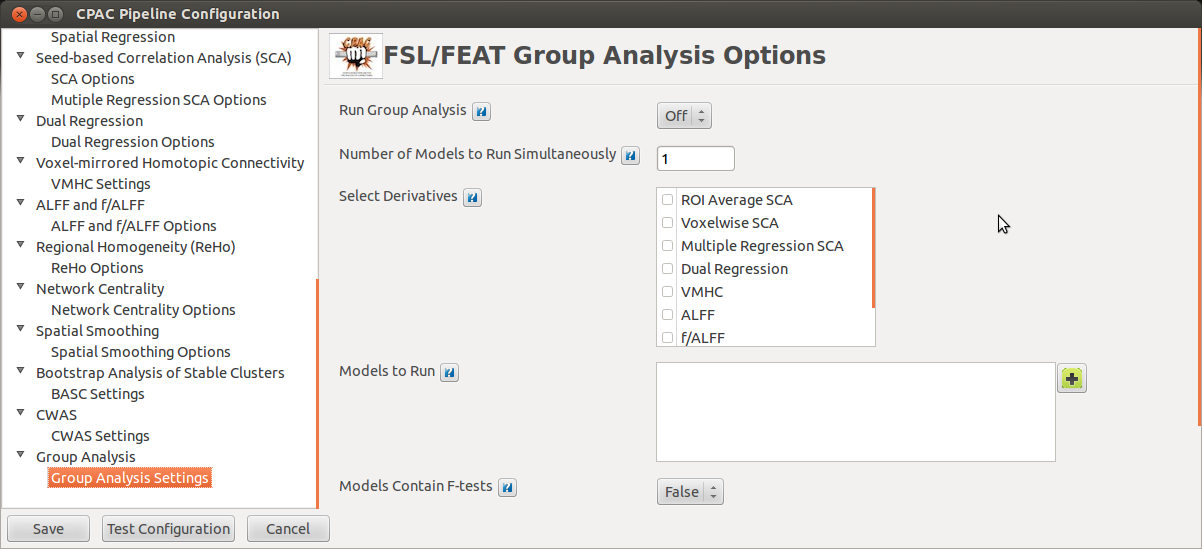
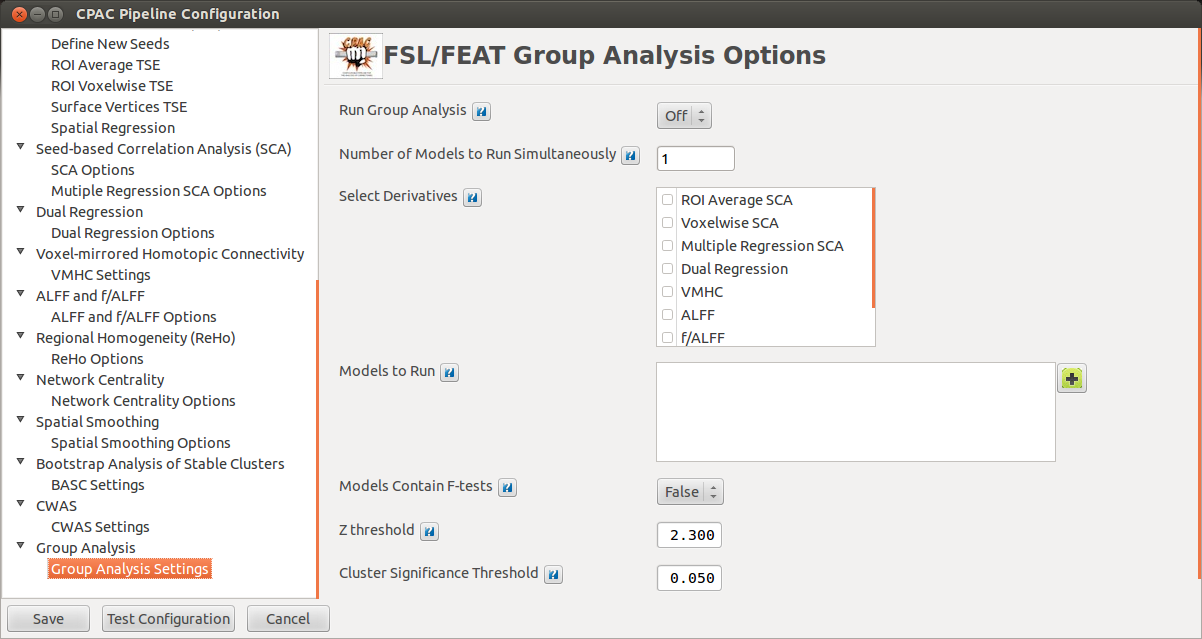
added z-score toggle and group analysis cores setting for 0.3.4 release

diff --git a/docs/user/fsl_ga.html b/docs/user/fsl_ga.html
@@ -52,6 +52,7 @@
       <div class="documentwrapper">
         <div class="bodywrapper">
           <div class="body">
+    
             
   <div class="section" id="fsl-group-analysis">
 <h1>FSL Group Analysis<a class="headerlink" href="#fsl-group-analysis" title="Permalink to this headline">¶</a></h1>
@@ -65,6 +66,8 @@
 <li><a class="reference external" href="http://www.fmrib.ox.ac.uk/fslcourse/lectures/feat1_part2.pdf">http://www.fmrib.ox.ac.uk/fslcourse/lectures/feat1_part2.pdf</a></li>
 <li><a class="reference external" href="http://www.cubric.cf.ac.uk/neuroimaging-training/session5_group.pdf">http://www.cubric.cf.ac.uk/neuroimaging-training/session5_group.pdf</a></li>
 </ul>
+
+
 </div>
 <div class="section" id="configuring-cpac-to-run-fsl-group-analysis">
 <h2>Configuring CPAC to Run FSL Group Analysis<a class="headerlink" href="#configuring-cpac-to-run-fsl-group-analysis" title="Permalink to this headline">¶</a></h2>
@@ -73,12 +76,15 @@
 </div>
 <ul class="simple">
 <li><strong>Run Group Analysis:</strong> Run group analysis using FSL/FEAT.</li>
+<li><strong>Number of Models to Run Simultaneously</strong> Set the number of computational cores that you would like to dedicate to group analysis.</li>
 <li><strong>Select Derivatives:</strong> Select which derivatives you would like to include when running group analysis. When including Dual Regression, make sure to correct your P-value for the number of maps you are comparing. When including Multiple Regression SCA, you must have more degrees of freedom (subjects) than there were time series.</li>
 <li><strong>Models to Run:</strong> Use the + to add FSL Models to be run (or to create new models).</li>
 <li><strong>Models Contain F-tests:</strong> Set this option to True if any of the models specified above contain F-tests.</li>
 <li><strong>Z Threshold:</strong> Only voxels with a Z-score higher than this value will be considered significant.</li>
 <li><strong>Cluster Significance Threshold:</strong> Significance threshold (P-value) to use when doing cluster correction for multiple comparisons.</li>
 </ul>
+
+
 <div class="section" id="specifying-models-to-run">
 <h3>Specifying Models to Run<a class="headerlink" href="#specifying-models-to-run" title="Permalink to this headline">¶</a></h3>
 <div class="figure">

diff --git a/docs/user/derivs.html b/docs/user/derivs.html
@@ -66,7 +66,11 @@
 <li><a class="reference internal" href="centrality.html"><em>Network centrality</em></a> - Analyze the structure of functional networks.</li>
 <li><a class="reference internal" href="cwas.html"><em>Connectome-wide Association Studies (CWAS)</em></a> - Explore the examines the relationship between patterns of functional connectivity and phenotypes.</li>
 </ul>
+<p>From the Derivatives Settings Menu under Environment Setup, users can toggle whether to output all connectivity measures as z-scores, which benefits subsequent group analysis.</p>
+<img alt="_images/derivs_gui.png" src="_images/derivs_gui.png">
 </div>
+
+
 <div class="section" id="timeseries-extraction">
 <h2>Timeseries Extraction<a class="headerlink" href="#timeseries-extraction" title="Permalink to this headline">¶</a></h2>
 <p>C-PAC makes it easy to <a class="reference internal" href="tse.html"><em>export timeseries information</em></a> from your data. Users can choose to extract timeseries from regions of interest, individual voxels, and even surface vertices (requires <a class="reference external" href="http://surfer.nmr.mgh.harvard.edu/">FreeSurfer</a>).</p>
